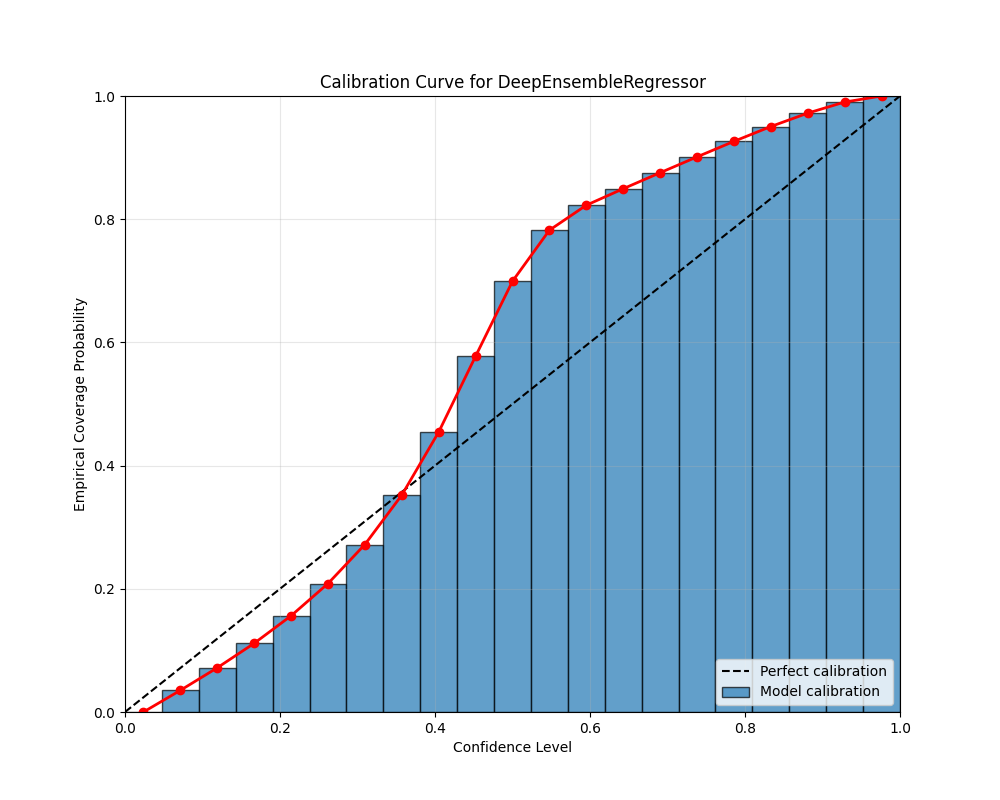
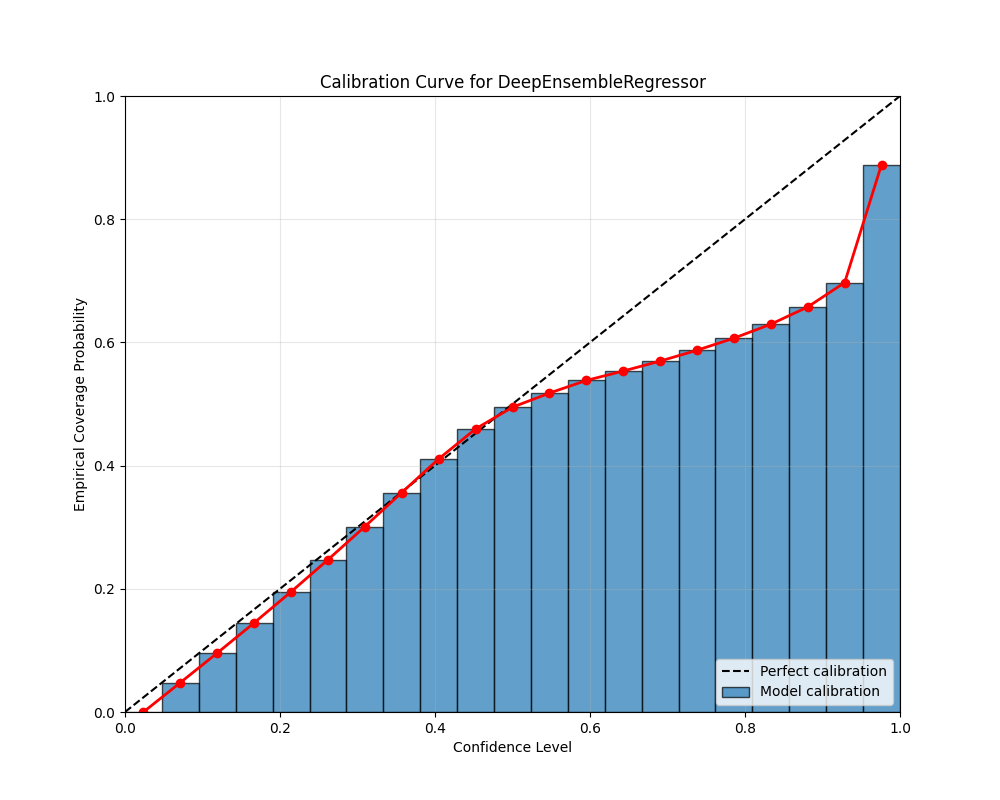
Fixed bug for evaluating GPs

Changed region(s): [[0.155, 0.0938, 0.899, 0.875]]

diff --git a/xai_gp/utils/evaluation.py b/xai_gp/utils/evaluation.py
@@ -20,7 +20,10 @@ def extract_predictions(model, batch_x):
     """Extract predictions based on model type."""
     if is_gp_model(model):
         mvr = model(batch_x)
-        return mvr.mean, mvr.variance
+        means, vars = mvr.mean, mvr.variance
+        mean = means.mean(dim=0)
+        var = (vars + torch.square(means)).mean(dim=0) - mean
+        return mean, var
     else:
         mean, variance = model(batch_x)
         return mean, variance
@@ -98,16 +101,9 @@ def evaluate_model(model, test_loader, cfg):
 
         test_targets = torch.tensor(all_targets).cpu()
 
-        if is_gp_model(model):
-            test_means = torch.cat(all_means, dim=1).cpu()
-            test_variances = torch.cat(all_variances, dim=1).cpu()
-        else:
-            test_means = torch.cat(all_means, dim=0).cpu()
-            test_variances = torch.cat(all_variances, dim=0).cpu()
-
-        mse = torch.mean(abs(test_means - test_targets)).item()
-        print(f"\nTest Results:")
-        print(f"MAE: {mse:.4f}")
+        # GPs return a list of means and variances for each point while other models return a single tensor for the whole ensemble
+        test_means = torch.cat(all_means, dim=0).cpu()
+        test_variances = torch.cat(all_variances, dim=0).cpu()
 
     test_means = test_means.numpy()
     test_variances = test_variances.numpy()
@@ -115,6 +111,9 @@ def evaluate_model(model, test_loader, cfg):
     if cfg.data.task_type == "regression":
         test_stds = np.sqrt(test_variances)
         test_targets = test_targets.numpy()
+        
+        mae = np.mean(np.abs(test_means - test_targets))
+        print(f"Mean Absolute Error: {mae:.4f}")
 
         conf, acc = regressor_calibration_curve(test_means, test_targets, test_stds)
         calibration_error = regressor_calibration_error(
@@ -122,6 +121,7 @@ def evaluate_model(model, test_loader, cfg):
             precomputed_conf=conf,
             precomputed_acc=acc
         )
+        
         print(f"Calibration error: {calibration_error:.4f}")
 
         plot_title = f"Calibration Curve for {cfg.model.type}"

diff --git a/xai_gp/utils/training.py b/xai_gp/utils/training.py
@@ -102,8 +102,6 @@ def train_model(model, train_loader, optimizer, cfg):
     num_epochs = cfg.training.num_epochs
     print(f"Training for {num_epochs} epochs...")
 
-    start_time = log_training_start(cfg.model.type, num_epochs, len(train_loader.dataset))
-
     if isinstance(model, (DeepGPModel, DSPPModel)):
         beta = cfg.model.get('beta', None)
         fit_gp(model, train_loader, num_epochs, optimizer, gp_mode=cfg.model.gp_mode, beta=beta)
@@ -114,5 +112,3 @@ def train_model(model, train_loader, optimizer, cfg):
             train_ensemble_classification(model, train_loader, num_epochs, cfg.training.learning_rate)
         else:
             raise ValueError(f"Unknown task type: {cfg.data.task_type}. Must be 'regression' or 'classification'.")
-
-    log_training_end(start_time, 0, len(train_loader))  # Replace `0` with actual loss if available
